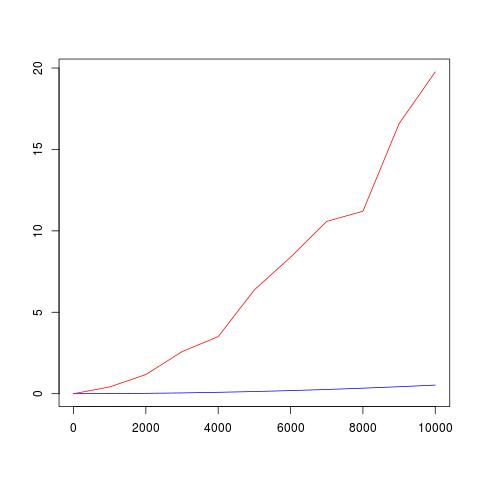
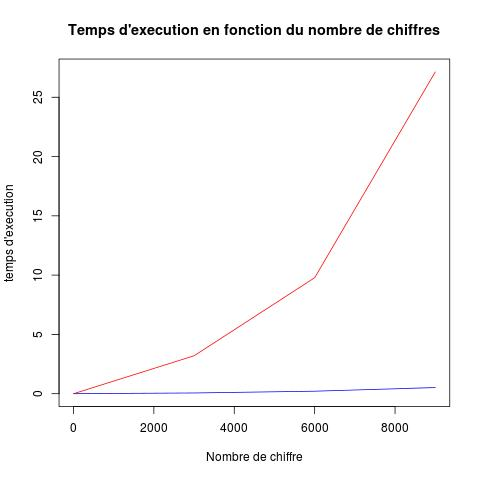
Maj script + readme

diff --git a/main.c b/main.c
@@ -57,7 +57,7 @@ int main(int argc, char ** argv)
 				Array x;
 				Array y;
 				Array z;
-				for(int i=1;i<10010;i+=1000){
+				for(int i=1;i<10010;i+=3000){
 				//for(int i=1;i<35;i+=1){
 					char* s1 = calloc(i,sizeof(int));
 					char* s2 = calloc(i,sizeof(int));

diff --git a/README.md b/README.md
@@ -1,1 +1,15 @@
 # ter
+
+## Compilation ##
+
+make compile
+
+## execution ##
+
+make run
+
+make naive
+
+make kara
+
+make plot
